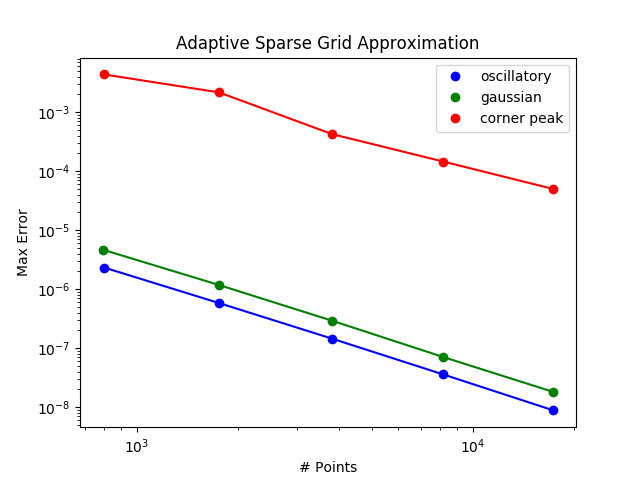
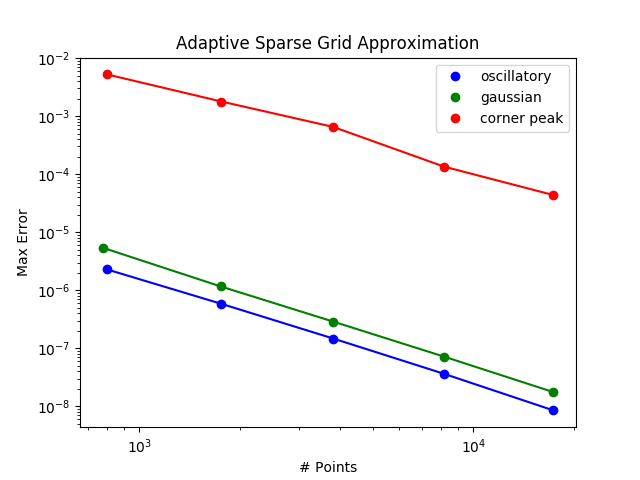
finish analytical

diff --git a/day1_SparseGrid/SparseGridCode/analytical_examples/TASMANIAN_Python/homework.py b/day1_SparseGrid/SparseGridCode/analytical_examples/TASMANIAN_Python/homework.py
@@ -14,8 +14,8 @@ grid  = TasmanianSG.TasmanianSparseGrid()
 #############################################################################
 
 # Initialize Test Functions and Parameters
-c = np.array([-.1, .5])
-w = np.array([.1, .5])
+c = np.array([.1, .5])
+w = np.array([-.1, .5])
 d = 2
 
 def oscillatory(x, c, w, d):
